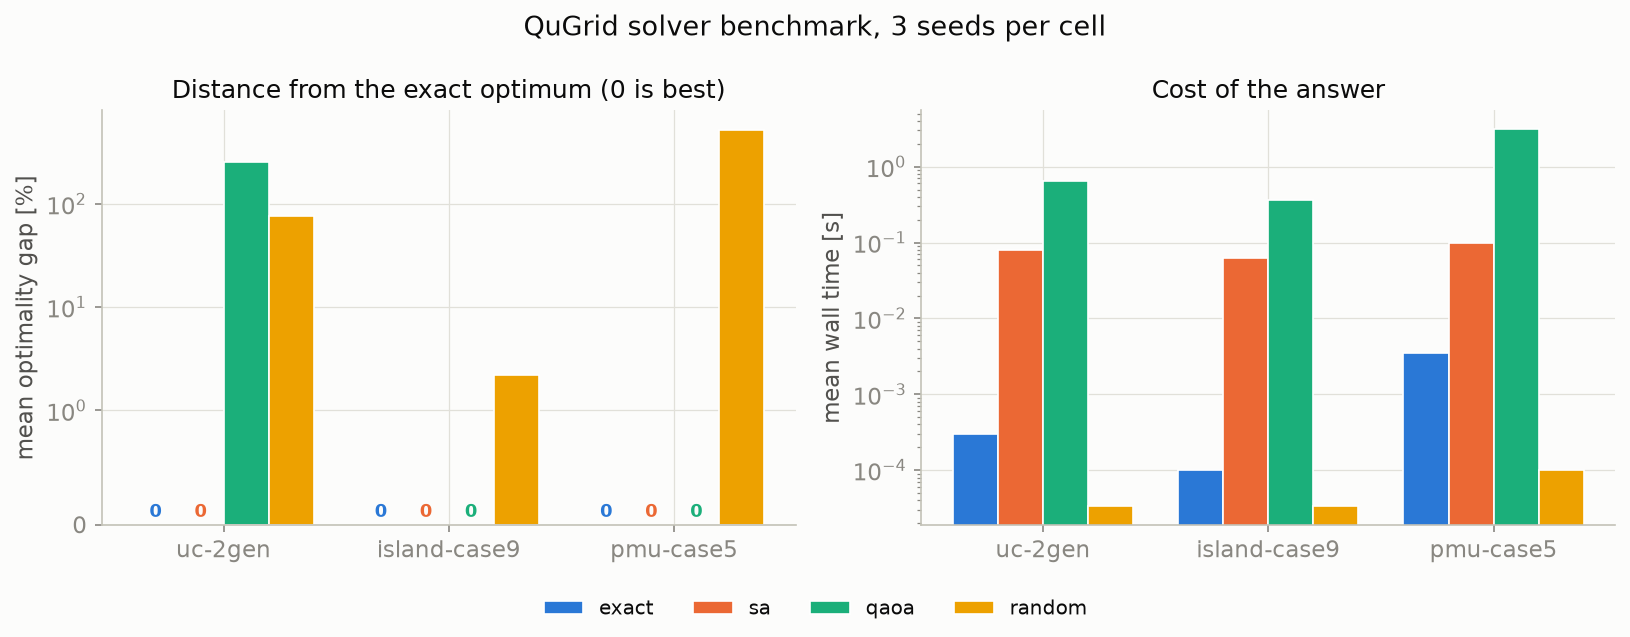
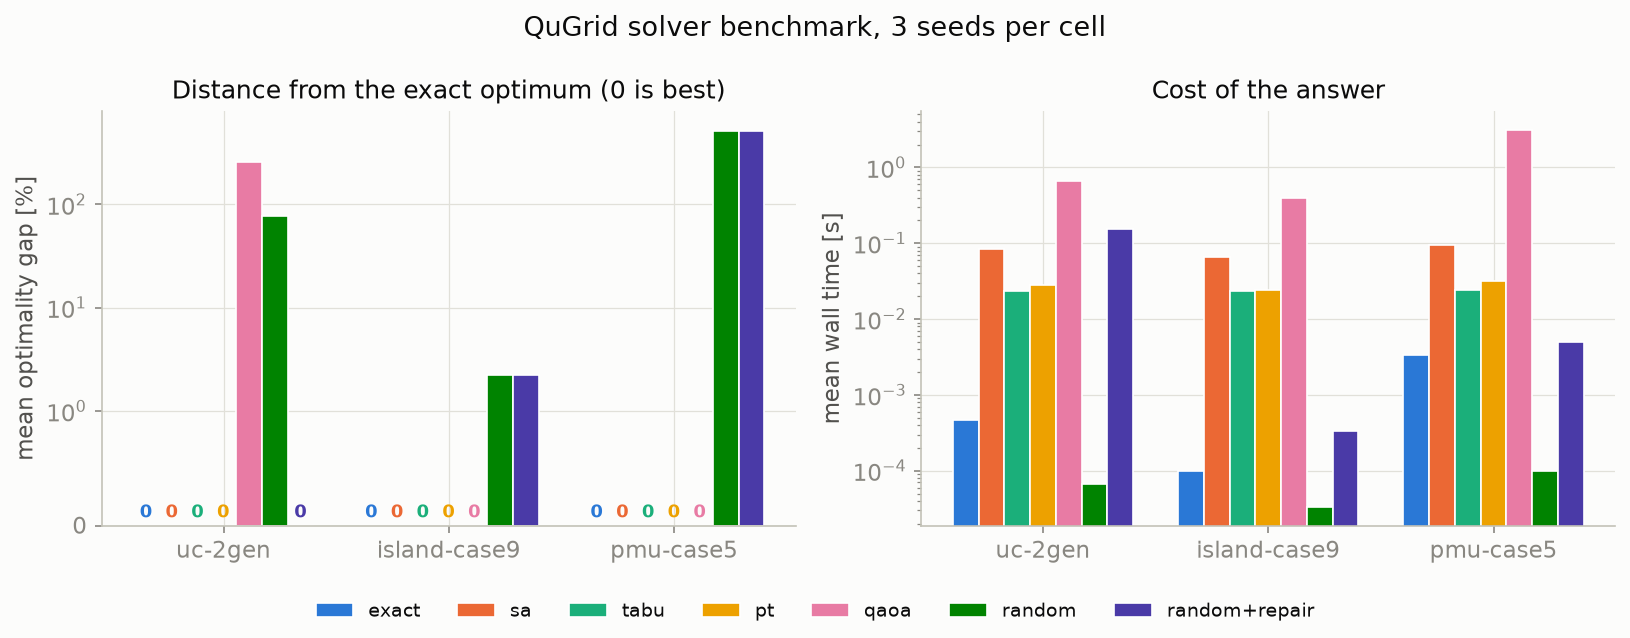
Tabu search and parallel tempering baselines; example 07 seven-solver sweep

diff --git a/examples/07_solver_benchmark.py b/examples/07_solver_benchmark.py
@@ -5,16 +5,18 @@ WHAT
       * unit commitment, 2 thermal units over 2 periods with startup costs;
       * controlled islanding of the WSCC 9-bus system;
       * minimum PMU placement for full observability of the PJM 5-bus system.
-    Each is encoded as a QUBO and given to four solvers: exhaustive
-    enumeration, simulated annealing, depth-2 QAOA, and uniform random
-    sampling. Every combination runs with seeds 0, 1, and 2.
+    Each is encoded as a QUBO and given to seven solvers: exhaustive
+    enumeration, simulated annealing, tabu search, parallel tempering,
+    depth-2 QAOA, uniform random sampling, and random sampling with greedy
+    repair. Every combination runs with seeds 0, 1, and 2.
 
 WHY QUANTUM
     A quantum optimizer is only interesting on a problem where it beats the
     classical methods that need no quantum hardware. This benchmark measures
-    that comparison directly. The result on these instances is that simulated
-    annealing matches the exact optimum everywhere at a fraction of a second,
-    and QAOA does not improve on it.
+    that comparison directly. The result on these instances is that every
+    classical heuristic — simulated annealing, tabu search, parallel
+    tempering — matches the exact optimum on every problem within 0.1 s,
+    and QAOA does not improve on any of them.
 
     PMU placement runs on the PJM 5-bus system, not the 9-bus system: the
     9-bus formulation needs 24 binaries (9 placement bits plus 15 slack bits)
@@ -24,13 +26,17 @@ EXPECTED OUTPUT
     A mean-and-spread summary, an engineering-units comparison, and a grouped
     bar figure of the mean optimality gap and the mean wall time. Results,
     summary, LaTeX table, and run configuration are written to
-    examples/runs/benchmark/. Simulated annealing reaches gap 0 on all three
-    problems in under 0.1 s. QAOA reaches gap 0 on islanding and on PMU
-    placement, and fails on unit commitment with a mean gap of 255%: the
-    constraint penalties stretch that QUBO energy range to 709,000 while the
-    cost difference between the best and the second-best schedule is 30, so
-    the rescaled cost Hamiltonian cannot separate them. Runtime is about 20
-    seconds.
+    examples/runs/benchmark/. Simulated annealing, tabu search, and parallel
+    tempering reach gap 0 on all three problems in under 0.1 s. QAOA reaches
+    gap 0 on islanding and on PMU placement, and fails on unit commitment
+    with a mean gap of 255%: the constraint penalties stretch that QUBO
+    energy range while the cost difference between the best and the
+    second-best schedule is 30, so the rescaled cost Hamiltonian cannot
+    separate them. Greedy repair turns random sampling into an exact solver
+    on unit commitment (gap 77% -> 0%) by walking every sample back to a
+    balanced schedule; on islanding and PMU placement it changes nothing,
+    because almost every uniform sample is already feasible there — repair
+    restores feasibility, it does not optimize. Runtime is about 20 seconds.
 """
 
 from __future__ import annotations
@@ -61,8 +67,11 @@ RUNDIR = Path(__file__).parent / "runs" / "benchmark"
 SOLVERS = {
     "exact": {},
     "sa": {},
+    "tabu": {},
+    "pt": {},
     "qaoa": {"p": 2},
     "random": {"samples": 256},
+    "random+repair": {"samples": 256},
 }
 
 # Engineering quantity reported per problem: decoded key, label, format.
@@ -143,7 +152,7 @@ def main() -> int:
     summary = bench.summarize(df)
 
     header = (
-        f"{'problem':<14}  {'solver':<7}  {'objective':>12}  {'std':>9}  "
+        f"{'problem':<14}  {'solver':<13}  {'objective':>12}  {'std':>9}  "
         f"{'gap %':>9}  {'feasible':>9}  {'P(opt) %':>9}  {'time s':>8}"
     )
     print(header)
@@ -152,7 +161,7 @@ def main() -> int:
         p_success = row["p_success_mean"]
         p_text = "n/a" if not np.isfinite(p_success) else f"{100 * p_success:.3f}"
         print(
-            f"{row['problem']:<14}  {row['solver']:<7}  {row['objective_mean']:>12,.3f}  "
+            f"{row['problem']:<14}  {row['solver']:<13}  {row['objective_mean']:>12,.3f}  "
             f"{row['objective_std']:>9,.3f}  {100 * row['gap_mean']:>9.2f}  "
             f"{100 * row['feasible_rate']:>8.0f}%  {p_text:>9}  {row['time_mean_s']:>8.4f}"
         )
@@ -160,7 +169,7 @@ def main() -> int:
     # --------------------------------------------- engineering-units comparison
     print("\nengineering units at seed 0 (exact enumeration is the baseline)")
     header = f"{'problem':<14}  {'metric':<16}"
-    header += "".join(f"{name:>12}" for name in SOLVERS)
+    header += "".join(f"{name:>15}" for name in SOLVERS)
     print(header)
     print("-" * len(header))
     for name, problem in problems.items():
@@ -170,7 +179,7 @@ def main() -> int:
             res = qg.solve(problem, solver=solver, seed=0, **opts)
             value = fmt.format(float(res.decoded[key]))
             cells.append(value if res.feasible else f"{value}*")
-        print(f"{name:<14}  {label:<16}" + "".join(f"{c:>12}" for c in cells))
+        print(f"{name:<14}  {label:<16}" + "".join(f"{c:>15}" for c in cells))
     print("* marks a solution that violates the original constraints.")
 
     # ----------------------------------------------------------------- artifacts
@@ -219,10 +228,10 @@ def main() -> int:
     )
 
     x = np.arange(len(order))
-    width = 0.2
+    width = 0.8 / len(solver_names)
     fig, (ax1, ax2) = plt.subplots(1, 2, figsize=(11.0, 4.2))
     for i, solver in enumerate(solver_names):
-        offset = (i - 1.5) * width
+        offset = (i - (len(solver_names) - 1) / 2) * width
         heights = np.maximum(gaps[i], 0.0)
         ax1.bar(
             x + offset,
@@ -260,7 +269,7 @@ def main() -> int:
     ax2.set_title("Cost of the answer")
     fig.suptitle(f"QuGrid solver benchmark, {len(list(SEEDS))} seeds per cell")
     handles, labels = ax1.get_legend_handles_labels()
-    fig.legend(handles, labels, loc="lower center", ncols=4, fontsize=9.5)
+    fig.legend(handles, labels, loc="lower center", ncols=len(solver_names), fontsize=9.0)
     fig.tight_layout(rect=(0, 0.07, 1, 1))
     fig.savefig(FIGDIR / "07_solver_benchmark_gap.png", dpi=150)
     plt.close(fig)
@@ -270,19 +279,20 @@ def main() -> int:
     exact_gaps = df.loc[df["solver"] == "exact", "gap"].to_numpy()
     assert np.all(np.abs(exact_gaps) < 1e-9), f"exact enumeration has a gap: {exact_gaps}"
     for prob in order:
-        sa_gap = summary.loc[
-            (summary["problem"] == prob) & (summary["solver"] == "sa"), "gap_mean"
-        ].iloc[0]
+        for solver in ("sa", "tabu", "pt"):
+            heuristic_gap = summary.loc[
+                (summary["problem"] == prob) & (summary["solver"] == solver), "gap_mean"
+            ].iloc[0]
+            assert abs(heuristic_gap) < 1e-9, (
+                f"{prob}: {solver} misses the optimum (mean gap {heuristic_gap:.4f})"
+            )
         rand_gap = summary.loc[
             (summary["problem"] == prob) & (summary["solver"] == "random"), "gap_mean"
         ].iloc[0]
-        assert sa_gap <= rand_gap + 1e-9, (
-            f"{prob}: simulated annealing ({sa_gap:.4f}) is worse than "
-            f"random sampling ({rand_gap:.4f})"
-        )
+        assert rand_gap > -1e-9, f"{prob}: random sampling beat the exact optimum"
     assert df["gap"].notna().all(), "some runs produced no optimality gap"
-    print("\nVALIDATION PASSED: exact enumeration has gap 0 everywhere, and simulated")
-    print("annealing is at least as good as random sampling on every problem.")
+    print("\nVALIDATION PASSED: exact enumeration has gap 0 everywhere, and every")
+    print("classical heuristic (sa, tabu, pt) matches the exact optimum on every problem.")
     return 0
 
 

diff --git a/src/qugrid/solvers/baselines.py b/src/qugrid/solvers/baselines.py
@@ -1,0 +1,155 @@
+"""Stronger classical baselines: tabu search and parallel tempering.
+
+Exhaustive enumeration and plain simulated annealing are weak opponents for
+a quantum claim. Parallel tempering is the strongest widely reported
+classical heuristic on sparse QUBOs, and tabu search is the standard
+deterministic local-search opponent — both appear as the classical side of
+published annealer comparisons on power system problems (Kaseb et al.,
+"Quantum annealing versus classical solvers for grid partitioning",
+arXiv:2505.15978, D-Wave and Fujitsu digital annealer studies). Reviewers
+of any study built on QuGrid will ask for them, so they ship with the same
+seeded :class:`~qugrid.solvers.base.Result` contract as every other solver:
+
+>>> qg.solve(prob, solver="tabu", seed=0)
+>>> qg.solve(prob, solver="pt", seed=0)
+
+Both operate on the Ising form with incremental local-field updates, the
+same machinery as the built-in simulated annealing.
+"""
+
+from __future__ import annotations
+
+import numpy as np
+
+from qugrid.problems.base import CombinatorialProblem
+from qugrid.solvers.base import Result, attach_reference, finish_combinatorial, timed
+
+
+def solve_tabu(
+    problem: CombinatorialProblem,
+    n_iters: int = 2000,
+    tenure: int | None = None,
+    n_restarts: int = 4,
+    seed: int = 0,
+    **_ignored,
+) -> Result:
+    """Tabu search: best non-tabu single flip, aspiration on new global best.
+
+    Each iteration flips the variable with the lowest resulting energy among
+    those not flipped within the last ``tenure`` iterations; a tabu flip is
+    allowed only when it beats the best energy seen (the aspiration
+    criterion). ``tenure`` defaults to the common heuristic ``7 + n // 10``,
+    capped at ``n // 2`` so small problems keep enough non-tabu moves to
+    search with.
+    """
+    ising = problem.qubo.to_ising()
+    n = ising.n
+    jsym = ising.j + ising.j.T
+    tenure = tenure if tenure is not None else max(2, min(7 + n // 10, n // 2))
+    rng = np.random.default_rng(seed)
+
+    res = Result(solver="tabu", problem=problem)
+    best_e, best_s = np.inf, None
+    with timed(res.resources):
+        for _restart in range(n_restarts):
+            s = rng.choice([-1.0, 1.0], size=n)
+            local = jsym @ s + ising.h
+            e = float(ising.energy(s))
+            expiry = np.zeros(n, dtype=int)  # iteration until which a flip is tabu
+            for it in range(n_iters):
+                de = -2.0 * s * local
+                allowed = expiry <= it
+                # aspiration: a tabu move that makes a new global best is allowed
+                allowed |= (e + de) < best_e - 1e-12
+                if not allowed.any():
+                    break
+                cand = np.where(allowed, de, np.inf)
+                i = int(np.argmin(cand))
+                s[i] = -s[i]
+                e += float(de[i])
+                local += 2.0 * s[i] * jsym[:, i]
+                expiry[i] = it + 1 + tenure
+                if e < best_e - 1e-12:
+                    best_e, best_s = e, s.copy()
+            res.history.append(best_e)
+    assert best_s is not None
+    x = ((1.0 - best_s) / 2.0).astype(int)
+    finish_combinatorial(res, problem, x)
+    res.resources.update(
+        {"n_vars": n, "iters": n_iters, "tenure": tenure, "restarts": n_restarts, "seed": seed}
+    )
+    return attach_reference(res, problem)
+
+
+def solve_pt(
+    problem: CombinatorialProblem,
+    n_rounds: int = 300,
+    n_replicas: int = 10,
+    t_hot: float | None = None,
+    t_cold: float | None = None,
+    seed: int = 0,
+    **_ignored,
+) -> Result:
+    """Parallel tempering: replicas on a temperature ladder with swap moves.
+
+    Each round performs one Metropolis sweep per replica, then attempts a
+    swap between every adjacent temperature pair with the standard exchange
+    probability ``min(1, exp((1/T_i - 1/T_j)(E_i - E_j)))``. Hot replicas
+    cross barriers, cold replicas refine, and exchanges move good
+    configurations down the ladder — the mechanism that makes tempering the
+    reported strongest classical heuristic on sparse QUBOs. Temperatures
+    span the problem's own energy scale geometrically, like the built-in
+    simulated annealing.
+    """
+    ising = problem.qubo.to_ising()
+    n = ising.n
+    h = ising.h
+    jsym = ising.j + ising.j.T
+    scale = float(np.abs(h).max() + np.abs(jsym).sum(axis=1).max()) or 1.0
+    t_hot = t_hot if t_hot is not None else 2.0 * scale
+    t_cold = t_cold if t_cold is not None else 1e-3 * scale
+    temps = t_hot * (t_cold / t_hot) ** (np.arange(n_replicas) / max(n_replicas - 1, 1))
+    betas = 1.0 / temps
+
+    rng = np.random.default_rng(seed)
+    res = Result(solver="pt", problem=problem)
+    with timed(res.resources):
+        spins = rng.choice([-1.0, 1.0], size=(n_replicas, n))
+        locals_ = spins @ jsym + h  # row r: local field of replica r
+        energies = np.array([float(ising.energy(s)) for s in spins])
+        best_e = float(energies.min())
+        best_s = spins[int(np.argmin(energies))].copy()
+        swaps_accepted = 0
+        for _round in range(n_rounds):
+            for r in range(n_replicas):
+                s, local = spins[r], locals_[r]
+                e, t = energies[r], temps[r]
+                for i in rng.permutation(n):
+                    de = -2.0 * s[i] * local[i]
+                    if de <= 0 or rng.random() < np.exp(-de / t):
+                        s[i] = -s[i]
+                        e += de
+                        local += 2.0 * s[i] * jsym[:, i]
+                energies[r] = e
+                if e < best_e - 1e-12:
+                    best_e, best_s = float(e), s.copy()
+            for r in range(n_replicas - 1):  # adjacent swaps, hot to cold
+                accept = (betas[r] - betas[r + 1]) * (energies[r] - energies[r + 1])
+                if accept >= 0 or rng.random() < np.exp(accept):
+                    spins[[r, r + 1]] = spins[[r + 1, r]]
+                    locals_[[r, r + 1]] = locals_[[r + 1, r]]
+                    energies[[r, r + 1]] = energies[[r + 1, r]]
+                    swaps_accepted += 1
+            res.history.append(best_e)
+    x = ((1.0 - best_s) / 2.0).astype(int)
+    finish_combinatorial(res, problem, x)
+    res.resources.update(
+        {
+            "n_vars": n,
+            "rounds": n_rounds,
+            "replicas": n_replicas,
+            "swaps_accepted": swaps_accepted,
+            "seed": seed,
+        }
+    )
+    return attach_reference(res, problem)

diff --git a/tests/test_baselines.py b/tests/test_baselines.py
@@ -1,0 +1,50 @@
+"""Tabu search and parallel tempering: the stronger classical opponents.
+
+The contract mirrors simulated annealing: seeded, deterministic, gap 0 on
+every bundled small formulation in well under a second.
+"""
+
+from __future__ import annotations
+
+import pytest
+
+import qugrid as qg
+from qugrid.classical.dispatch import GenParams
+
+GENS = [
+    GenParams("base", pmin=0, pmax=90, c2=0.02, c1=10, c0=50, startup=100),
+    GenParams("peaker", pmin=0, pmax=60, c2=0.04, c1=20, c0=30, startup=80),
+]
+
+
+def _problems():
+    return [
+        qg.problems.Islanding(qg.cases.case9()),
+        qg.problems.UnitCommitment(GENS, [60.0, 130.0], power_bits=2),
+        qg.problems.PMUPlacement(qg.cases.case5()),
+    ]
+
+
+@pytest.mark.parametrize("solver", ["tabu", "pt"])
+def test_gap_zero_on_bundled_problems_three_seeds(solver, recwarn):
+    for problem in _problems():
+        for seed in (0, 1, 2):
+            res = qg.solve(problem, solver=solver, seed=seed)
+            assert res.feasible
+            assert res.gap() == pytest.approx(0.0, abs=1e-9)
+            assert res.resources["wall_time_s"] < 10.0
+
+
+@pytest.mark.parametrize("solver", ["tabu", "pt"])
+def test_same_seed_reproduces_the_result(solver, recwarn):
+    problem = qg.problems.Islanding(qg.cases.case9())
+    a = qg.solve(problem, solver=solver, seed=3)
+    b = qg.solve(problem, solver=solver, seed=3)
+    assert a.objective == b.objective
+    assert (a.x == b.x).all()
+
+
+def test_registry_lists_the_new_solvers():
+    prob = qg.problems.Islanding(qg.cases.case9())
+    with pytest.raises(ValueError, match="tabu"):
+        qg.solve(prob, solver="not-a-solver")

diff --git a/src/qugrid/solvers/__init__.py b/src/qugrid/solvers/__init__.py
@@ -13,6 +13,7 @@ from qugrid.adapters.external_solvers import (
 from qugrid.problems.base import CombinatorialProblem, LinearSystemProblem
 from qugrid.solvers.annealing import solve_sa
 from qugrid.solvers.base import Result
+from qugrid.solvers.baselines import solve_pt, solve_tabu
 from qugrid.solvers.exact import solve_exact_qubo, solve_linear_exact, solve_random
 from qugrid.solvers.hhl import solve_hhl
 from qugrid.solvers.kernel import (
@@ -34,6 +35,8 @@ REGISTRY: dict[str, tuple[Any, str]] = {
     "random": (solve_random, "qubo"),
     "random+repair": (solve_random_repair, "qubo"),
     "sa": (solve_sa, "qubo"),
+    "tabu": (solve_tabu, "qubo"),
+    "pt": (solve_pt, "qubo"),
     "qaoa": (solve_qaoa, "qubo"),
     "vqe": (solve_vqe, "qubo"),
     "numpy": (solve_linear_exact, "linear"),
@@ -123,6 +126,8 @@ __all__ = [
     "greedy_repair",
     "repair_result",
     "solve_sa",
+    "solve_tabu",
+    "solve_pt",
     "solve_qaoa",
     "solve_vqe",
     "solve_hhl",
